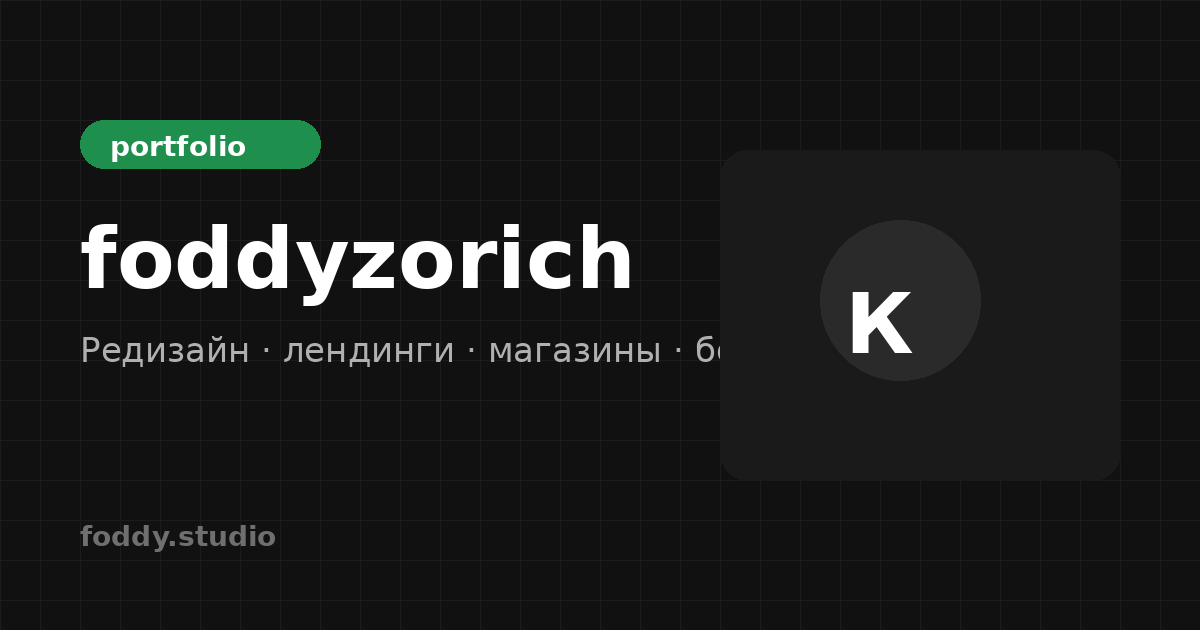
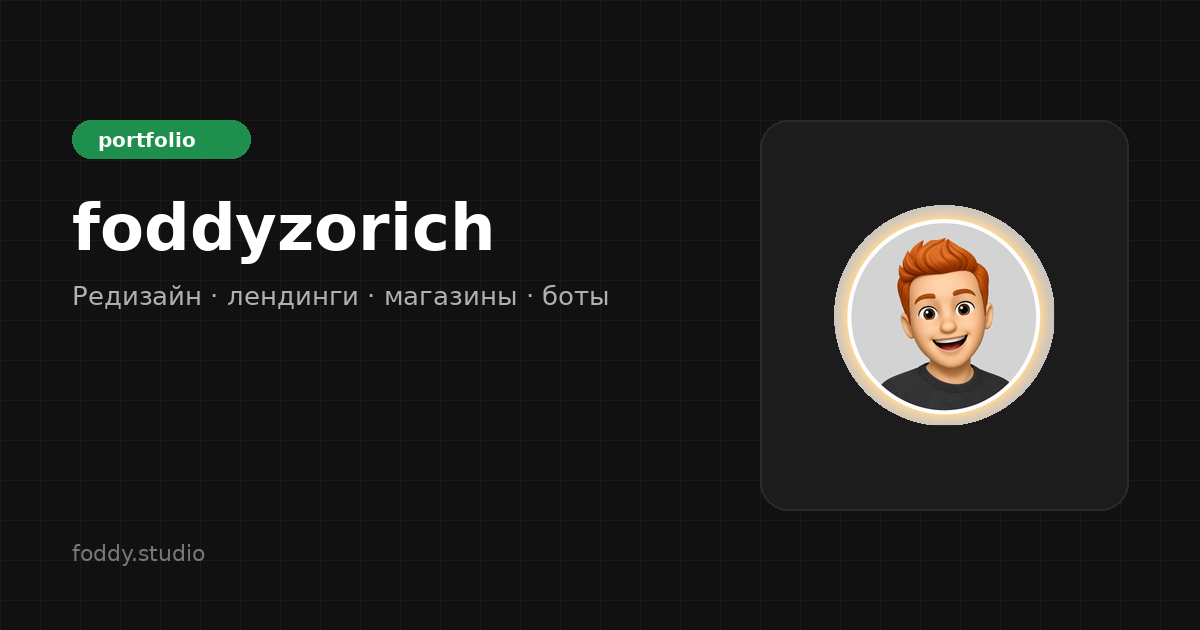
Use single before screenshots; refresh OG image
Before/after tabs now show one image each. OG preview uses
avatar and full service line for clearer link shares.

diff --git a/js/main.js b/js/main.js
@@ -20,16 +20,7 @@
         "assets/works/petrol/00-full-desktop.png",
       ],
       beforeAfter: {
-        theme: "petrol",
-        url: "petrol-lux.ru",
-        beforeTitle: "Сеть АЗС Petrol-Люкс",
-        beforeText: "Цены, адреса и контакты разнесены по страницам. Первый экран не держит внимание.",
-        cards: [
-          ["Цены", "Таблица без акцента"],
-          ["Станции", "Список адресов"],
-          ["Акции", "Мелкий баннер"],
-          ["Контакты", "Форма внизу"],
-        ],
+        before: "assets/works/petrol/before-desktop.png",
         after: "assets/works/petrol/00-full-desktop.png",
       },
     },
@@ -53,16 +44,7 @@
         "assets/works/globit/00-full-desktop.png",
       ],
       beforeAfter: {
-        theme: "globit",
-        url: "glob-it.ru",
-        beforeTitle: "Glob-IT — IT-услуги",
-        beforeText: "Услуги 1С и продукт Церера терялись в длинном тексте и устаревшей сетке.",
-        cards: [
-          ["Услуги", "Список ссылками"],
-          ["Тарифы", "Без сравнения"],
-          ["Церера", "Отдельная ссылка"],
-          ["Контакты", "Подвал"],
-        ],
+        before: "assets/works/globit/before-desktop.png",
         after: "assets/works/globit/00-full-desktop.png",
       },
     },
@@ -86,16 +68,7 @@
         "assets/works/inmis/00-full-desktop.png",
       ],
       beforeAfter: {
-        theme: "inmis",
-        url: "inmis.ru",
-        beforeTitle: "Inmis — медтех решения",
-        beforeText: "Продукты и ЕГИСЗ/Улло смешаны в плотном тексте без ясной иерархии.",
-        cards: [
-          ["Продукты", "Длинный абзац"],
-          ["Услуги", "Маркированный список"],
-          ["Документы", "Скачать PDF"],
-          ["Заявка", "Email в подвале"],
-        ],
+        before: "assets/works/inmis/before-desktop.png",
         after: "assets/works/inmis/00-full-desktop.png",
       },
     },
@@ -119,16 +92,7 @@
         "assets/works/profite/00-full-desktop.png",
       ],
       beforeAfter: {
-        theme: "profite",
-        url: "profite.ru",
-        beforeTitle: "ProfiTE — интегратор 1С",
-        beforeText: "Услуги, ИТС и контакты размазаны. Нет понятного расчёта обновлений.",
-        cards: [
-          ["1С:ИТС", "Текст-описание"],
-          ["Услуги", "Меню слева"],
-          ["Новости", "Лента дат"],
-          ["Контакты", "Карта отдельно"],
-        ],
+        before: "assets/works/profite/before-desktop.png",
         after: "assets/works/profite/00-full-desktop.png",
       },
     },
@@ -152,16 +116,7 @@
         "assets/works/zoomir/00-full-desktop.png",
       ],
       beforeAfter: {
-        theme: "zoomir",
-        url: "zoomir.ru",
-        beforeTitle: "Зоомир — зоомагазин",
-        beforeText: "Категории и товары терялись, первый экран не объяснял ценность магазина.",
-        cards: [
-          ["Каталог", "Много мелких ссылок"],
-          ["Акции", "Мигающий баннер"],
-          ["Доставка", "Текст в подвале"],
-          ["Контакты", "Телефон картинкой"],
-        ],
+        before: "assets/works/zoomir/before-desktop.png",
         after: "assets/works/zoomir/00-full-desktop.png",
       },
     },
@@ -352,39 +307,8 @@
 
   const wait = (ms) => new Promise((resolve) => window.setTimeout(resolve, ms));
 
-  const renderBeforeMock = (ba) => {
-    const cards = (ba.cards || [])
-      .map(
-        ([title, text]) =>
-          `<div class="ba-mock-card"><b>${title}</b><i>${text}</i></div>`
-      )
-      .join("");
-
-    return `
-      <div class="ba-mock is-${ba.theme}">
-        <div class="ba-mock-bar" aria-hidden="true">
-          <span class="ba-mock-dot"></span>
-          <span class="ba-mock-dot"></span>
-          <span class="ba-mock-dot"></span>
-          <span class="ba-mock-url">${ba.url}</span>
-        </div>
-        <div class="ba-mock-body">
-          <div class="ba-mock-nav">
-            <span>Главная</span>
-            <span>О компании</span>
-            <span>Услуги</span>
-            <span>Контакты</span>
-          </div>
-          <div class="ba-mock-hero">
-            <strong>${ba.beforeTitle}</strong>
-            <span>${ba.beforeText}</span>
-            <span class="ba-mock-cta">Подробнее</span>
-          </div>
-          <div class="ba-mock-grid">${cards}</div>
-        </div>
-      </div>
-      <p class="ba-caption">Условный вид до редизайна</p>`;
-  };
+  const shotHtml = (src, alt) =>
+    `<figure class="shot"><img src="${src}" alt="${alt}" loading="lazy"></figure>`;
 
   const setBaView = (mode) => {
     if (!baBlock || baBlock.hidden) return;
@@ -407,7 +331,7 @@
   const fillBeforeAfter = (data) => {
     if (!baBlock || !baBefore || !baAfter) return;
     const ba = data.beforeAfter;
-    if (!ba) {
+    if (!ba?.before || !ba?.after) {
       baBlock.hidden = true;
       baBefore.innerHTML = "";
       baAfter.innerHTML = "";
@@ -415,12 +339,8 @@
     }
 
     baBlock.hidden = false;
-    baBefore.innerHTML = renderBeforeMock(ba);
-    baAfter.innerHTML = `
-      <figure class="shot">
-        <img src="${ba.after}" alt="${data.title} — после" loading="lazy">
-      </figure>
-      <p class="ba-caption">Готовый вариант</p>`;
+    baBefore.innerHTML = shotHtml(ba.before, `${data.title} — до`);
+    baAfter.innerHTML = shotHtml(ba.after, `${data.title} — после`);
     setBaView("before");
   };
 

diff --git a/css/styles.css b/css/styles.css
@@ -869,183 +869,6 @@ body.is-dark .made-by:hover {
   margin: 0;
 }
 
-.ba-mock {
-  border-radius: 14px;
-  overflow: hidden;
-  border: 1px solid #e8e8e8;
-  background: #fff;
-  min-height: 280px;
-  font-family: Tahoma, Verdana, sans-serif;
-}
-
-.ba-mock-bar {
-  display: flex;
-  align-items: center;
-  gap: 0.35rem;
-  padding: 0.45rem 0.65rem;
-  background: #e8e8e8;
-  border-bottom: 1px solid #d4d4d4;
-}
-
-.ba-mock-dot {
-  width: 0.45rem;
-  height: 0.45rem;
-  border-radius: 50%;
-  background: #bbb;
-}
-
-.ba-mock-url {
-  flex: 1;
-  margin-left: 0.35rem;
-  padding: 0.2rem 0.5rem;
-  border-radius: 4px;
-  background: #f7f7f7;
-  border: 1px solid #ddd;
-  color: #666;
-  font-size: 0.68rem;
-  white-space: nowrap;
-  overflow: hidden;
-  text-overflow: ellipsis;
-}
-
-.ba-mock-body {
-  padding: 0.85rem 0.9rem 1rem;
-  display: grid;
-  gap: 0.55rem;
-}
-
-.ba-mock-nav {
-  display: flex;
-  flex-wrap: wrap;
-  gap: 0.45rem 0.75rem;
-  font-size: 0.7rem;
-  color: #1a4a8a;
-  text-decoration: underline;
-  margin-bottom: 0.2rem;
-}
-
-.ba-mock-hero {
-  padding: 0.75rem;
-  border: 1px solid #ccc;
-  background: linear-gradient(180deg, #fafafa, #ececec);
-}
-
-.ba-mock-hero strong {
-  display: block;
-  font-size: 0.95rem;
-  margin-bottom: 0.25rem;
-  color: #222;
-}
-
-.ba-mock-hero span {
-  display: block;
-  font-size: 0.72rem;
-  color: #666;
-  line-height: 1.4;
-}
-
-.ba-mock-grid {
-  display: grid;
-  grid-template-columns: 1fr 1fr;
-  gap: 0.45rem;
-}
-
-.ba-mock-card {
-  border: 1px solid #ccc;
-  background: #f9f9f9;
-  padding: 0.55rem;
-  min-height: 3.2rem;
-}
-
-.ba-mock-card b {
-  display: block;
-  font-size: 0.72rem;
-  margin-bottom: 0.2rem;
-  color: #333;
-}
-
-.ba-mock-card i {
-  display: block;
-  font-style: normal;
-  font-size: 0.65rem;
-  color: #777;
-  line-height: 1.35;
-}
-
-.ba-mock-cta {
-  display: inline-block;
-  margin-top: 0.15rem;
-  padding: 0.35rem 0.7rem;
-  border: 1px solid #999;
-  background: #ddd;
-  color: #222;
-  font-size: 0.72rem;
-  font-weight: 700;
-}
-
-.ba-mock.is-petrol .ba-mock-hero {
-  background: linear-gradient(180deg, #fff8e8, #e8e0d0);
-  border-color: #c9b896;
-}
-
-.ba-mock.is-petrol .ba-mock-cta {
-  background: #c9a227;
-  border-color: #a88410;
-  color: #fff;
-}
-
-.ba-mock.is-globit .ba-mock-hero {
-  background: linear-gradient(180deg, #e8eef8, #d5deec);
-  border-color: #9aadc8;
-}
-
-.ba-mock.is-globit .ba-mock-cta {
-  background: #2f5f9f;
-  border-color: #244a7a;
-  color: #fff;
-}
-
-.ba-mock.is-inmis .ba-mock-hero {
-  background: linear-gradient(180deg, #eef7f4, #d9ebe4);
-  border-color: #9bbfb0;
-}
-
-.ba-mock.is-inmis .ba-mock-cta {
-  background: #2f7a62;
-  border-color: #246350;
-  color: #fff;
-}
-
-.ba-mock.is-profite .ba-mock-hero {
-  background: linear-gradient(180deg, #fff3ea, #f0ddd0);
-  border-color: #d0a890;
-}
-
-.ba-mock.is-profite .ba-mock-cta {
-  background: #e0672a;
-  border-color: #b8511c;
-  color: #fff;
-}
-
-.ba-mock.is-zoomir .ba-mock-hero {
-  background: linear-gradient(180deg, #f3eefc, #e4dcf2);
-  border-color: #b8a8d4;
-}
-
-.ba-mock.is-zoomir .ba-mock-cta {
-  background: #6b4db0;
-  border-color: #553c8f;
-  color: #fff;
-}
-
-.ba-caption {
-  margin: 0.55rem 0 0;
-  padding: 0 0.15rem;
-  color: var(--muted);
-  font-size: 0.78rem;
-  font-weight: 500;
-}
-
 .toast {
   position: fixed;
   left: 50%;
@@ -1288,21 +1111,6 @@ body.is-dark .faq-item[open] {
 
 body.is-dark .ba-tab.is-active {
   box-shadow: 0 1px 2px rgba(0, 0, 0, 0.35);
-}
-
-body.is-dark .ba-mock {
-  border-color: #333;
-}
-
-body.is-dark .ba-mock-bar {
-  background: #2a2a2a;
-  border-bottom-color: #333;
-}
-
-body.is-dark .ba-mock-url {
-  background: #1a1a1a;
-  border-color: #333;
-  color: #999;
 }
 
 body.is-dark .social-tg {
